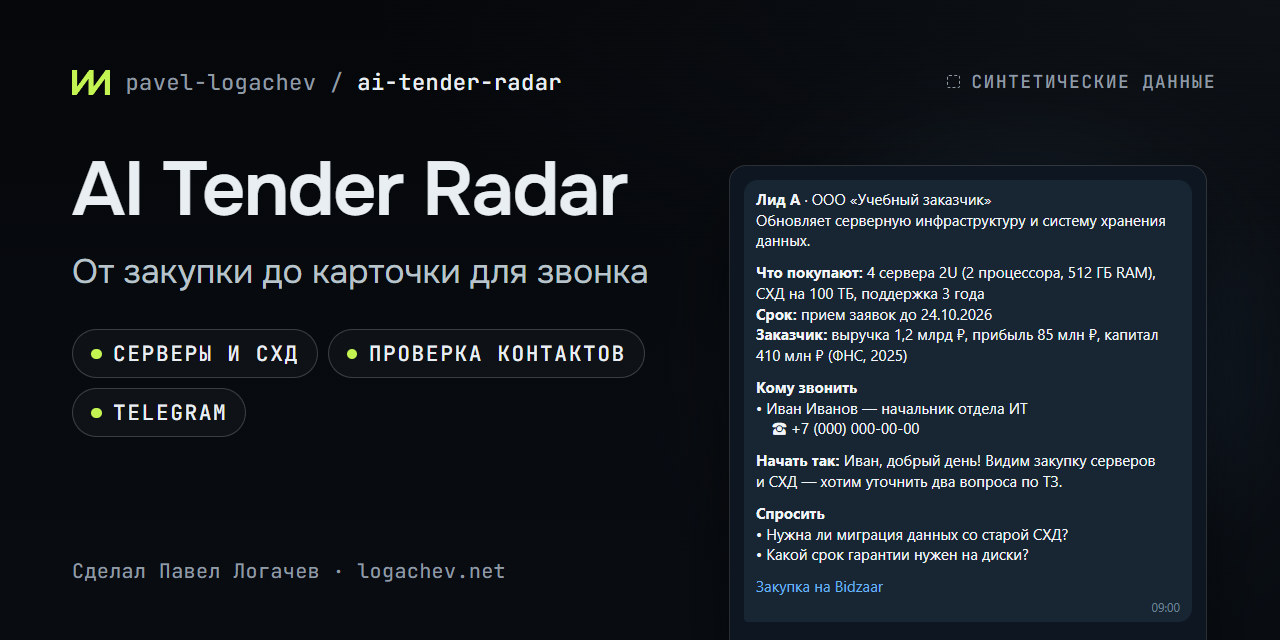
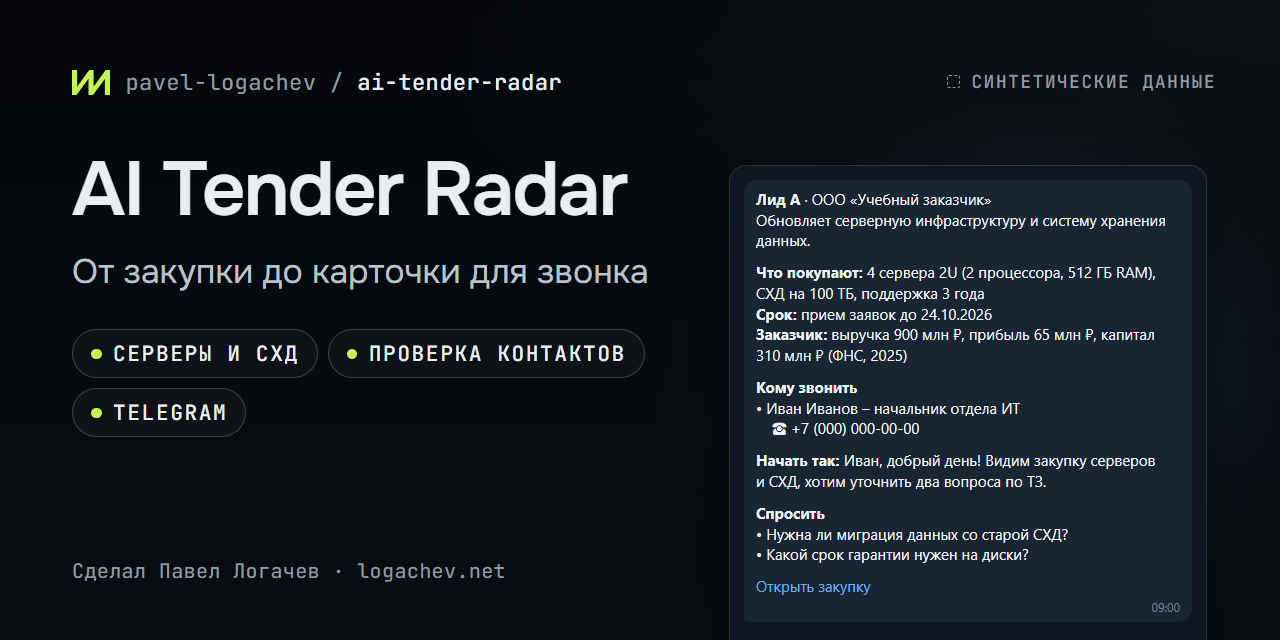
docs: remove procurement source names from public materials

diff --git a/README.md b/README.md
@@ -4,7 +4,7 @@
 
 [![Проверки в CI](https://img.shields.io/github/actions/workflow/status/pavel-logachev/ai-tender-radar/quality.yml?branch=main&style=flat-square&labelColor=0b0f14&label=CI)](https://github.com/pavel-logachev/ai-tender-radar/actions/workflows/quality.yml) [![Лицензия](https://img.shields.io/github/license/pavel-logachev/ai-tender-radar?style=flat-square&labelColor=0b0f14&label=%D0%BB%D0%B8%D1%86%D0%B5%D0%BD%D0%B7%D0%B8%D1%8F&color=7f99ad)](<LICENSE>)
 
-**AI Tender Radar находит закупки серверов и систем хранения данных на Bidzaar и присылает менеджеру в Telegram карточку для звонка: что покупают, к какому сроку и с кем связаться.**
+**AI Tender Radar находит закупки серверов и систем хранения данных и присылает менеджеру в Telegram карточку для звонка: что покупают, к какому сроку и с кем связаться.**
 
 [Статья о проекте](<https://logachev.net/journal/ii-agent-dlya-generacii-lidov-zakupki/>) · [Архитектура](<docs/ARCHITECTURE.md>) · [Что опубликовано](<docs/PUBLICATION_BOUNDARY.md>) · [Проверка](<docs/VERIFICATION.md>)
 
@@ -31,7 +31,7 @@
 
 Код ограничивает число шагов и расходы на модель. Перед сохранением результата [проверка контактов](<agent_radar/lead_agent/grounding.py>) механически сверяет цифры номера, имя и почту с текстами, которые агент действительно прочитал. Проверка отсекает номера, чье 10-значное ядро не найдено в слитной последовательности цифр этих текстов; имя и почта удаляются, если не проходят свою сверку. Журнал и доставка в Telegram тоже работают в коде.
 
-<picture><source media="(max-width: 767px)" srcset="docs/assets/ai-tender-radar-how-it-works-mobile.png"><img src="docs/assets/ai-tender-radar-how-it-works.png" alt="Агент изучает документы из Bidzaar, код сверяет контакты с текстами, карточка идет менеджеру в Telegram; без телефона – только журнал."></picture>
+<picture><source media="(max-width: 767px)" srcset="docs/assets/ai-tender-radar-how-it-works-mobile.png"><img src="docs/assets/ai-tender-radar-how-it-works.png" alt="Агент изучает документы закупки, код сверяет контакты с текстами, карточка идет менеджеру в Telegram, без телефона – только журнал."></picture>
 
 Подробности, включая версии закупок, повторные отправки и обработку сбоев, — в [архитектуре](<docs/ARCHITECTURE.md>).
 
@@ -86,7 +86,7 @@ python scripts/apply_migrations.py --dry-run
 
 - **Телефон проверен по тексту, а не звонком.** Совпадение цифр и имени с источником не доказывает, что номер принадлежит этому человеку или еще работает.
 - **У сверки телефона возможны ложные совпадения.** Код ищет 10-значное ядро номера в слитной последовательности всех цифр прочитанных текстов. Совпадение может случайно сложиться из соседних чисел: оно не гарантирует, что номер присутствует в тексте именно как телефон. Добавочный номер не проверяется и может сохраниться, даже если модель его придумала.
-- **Это не полный реестр закупок Bidzaar.** Источник хранит ограниченное окно изменений.
+- **Это не полный реестр закупок.** Источник хранит ограниченное окно изменений.
 - **Не все документы можно прочитать.** Поддерживаются PDF, DOCX, DOC, XLSX, TXT, ZIP и 7z. OCR, RAR и XLS не поддерживаются. Для DOC нужен `antiword`, для 7z — внешний `7zz` или `7z`.
 - Недоступный или нечитаемый файл отмечается как пробел в данных. Недоверенные документы нужно обрабатывать в отдельном процессе без сети и с лимитами ресурсов.
 - Веб-поиск использует необязательный пакет `ddgs`; без него инструмент сообщает, что поиск недоступен.

diff --git a/docs/ARCHITECTURE.md b/docs/ARCHITECTURE.md
@@ -2,7 +2,7 @@
 
 ## Рабочий поток
 
-Источник Bidzaar выбирает закупки серверов и СХД широким предварительным фильтром. Цена закупки не задает порог допуска. Источник обновляется каждые 30 минут и накапливает профильные изменения за 14 дней. Неразбираемая закупка попадает в карантин, остальные продолжают обработку.
+Источник выбирает закупки серверов и СХД широким предварительным фильтром. Цена закупки не задает порог допуска. Источник обновляется каждые 30 минут и накапливает профильные изменения за 14 дней. Неразбираемая закупка попадает в карантин, остальные продолжают обработку.
 
 После ограниченного скачивания и извлечения текста публикуются два представления: запечатанный снимок для вопросов боту и `analysis-source.json` для исследователя. Исследователь читает закупку и документы, проверяет экономику заказчика в ФНС, ищет опубликованный рабочий телефон и готовит карточку. Правила суждения задает промпт.
 
